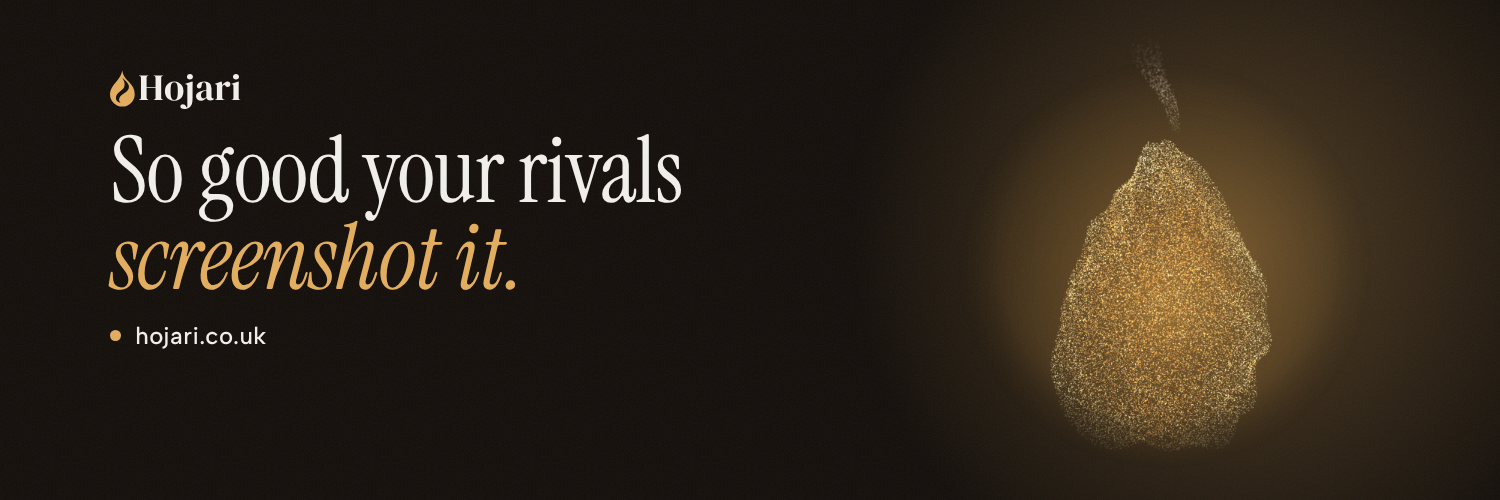
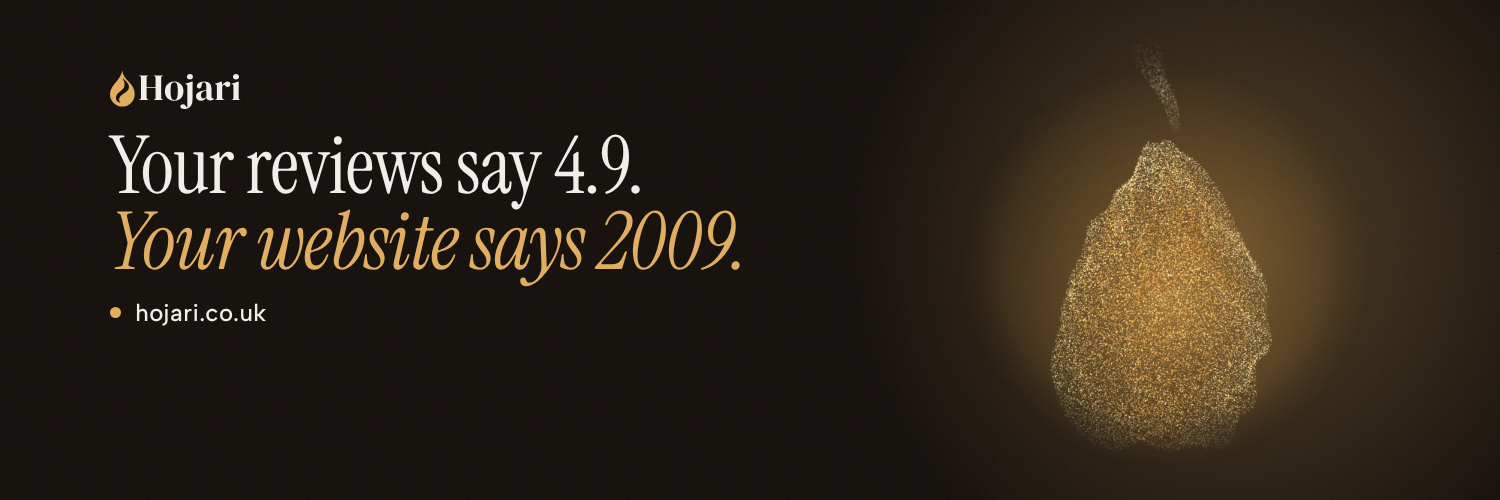
New headline: Your reviews say 4.9. Your website says 2009. Repeated phrases trimmed; preview card, story, cover and X header updated

Changed region(s): [[0.0613, 0.27, 0.4907, 0.69]]

diff --git a/public/index.html b/public/index.html
@@ -3,12 +3,12 @@
 <head>
 <meta charset="utf-8">
 <meta name="viewport" content="width=device-width, initial-scale=1">
-<title>Hojari · Websites so good your rivals screenshot them</title>
+<title>Hojari · Websites that live up to your reviews</title>
 <meta name="description" content="Websites that look a million quid and get your phone ringing with paying customers. Free homepage mock-up in 48 hours and live in 5 days, with nothing upfront.">
-<meta property="og:title" content="Hojari · So good your rivals screenshot it">
+<meta property="og:title" content="Hojari · Your reviews say 4.9. Your website says 2009.">
 <meta property="og:description" content="Websites and apps that look a million quid and get your phone ringing. Free homepage mock-up in 48 hours.">
 <meta property="og:type" content="website">
-<meta property="og:image" content="https://hojari.co.uk/assets/og-card.jpg">
+<meta property="og:image" content="https://hojari.co.uk/assets/og-card-2.jpg">
 <link rel="canonical" href="https://hojari.co.uk/">
 <meta property="og:url" content="https://hojari.co.uk/">
 <meta property="og:image:width" content="1200">
@@ -54,8 +54,8 @@
 <section class="hero" id="top" aria-labelledby="hero-title">
   <picture class="hero-pic"><source type="image/avif" srcset="assets/tear-poster-400.avif 400w, assets/tear-poster-560.avif 560w, assets/tear-poster-720.avif 720w" sizes="(max-width: 899px) 320px, 44vw"><img class="hero-poster" src="assets/tear-poster.webp" srcset="assets/tear-poster-460.webp 460w, assets/tear-poster.webp 720w" sizes="(max-width: 899px) 320px, 44vw" width="1200" height="1200" alt="" fetchpriority="high"></picture>
   <div class="hero-text">
-    <h1 id="hero-title" class="hero-title split">So good your rivals <em>screenshot it.</em></h1>
-    <p class="hero-sub">Frankincense was once worth its weight in gold. I'm Prejith, and I build websites that earn theirs. They look a million quid and get your phone ringing with paying customers.</p>
+    <h1 id="hero-title" class="hero-title split"><span class="hl">Your reviews say 4.9.</span> <em>Your website says 2009.</em></h1>
+    <p class="hero-sub">I'm Prejith, and I build websites that live up to your reviews. They look a million quid, load in a blink, and get your phone ringing with paying customers.</p>
     <div class="hero-actions">
       <a class="button button-light magnetic" href="#contact"><span class="long">Get your free mock-up</span><span class="short">Free mock-up</span></a>
       <a class="text-link hero-work" href="#work">See the work</a>
@@ -120,7 +120,7 @@
         <label class="check"><input type="checkbox" name="q"><span>It comes up when you Google your business</span></label>
         <label class="check"><input type="checkbox" name="q"><span>It loads in under three seconds</span></label>
         <label class="check"><input type="checkbox" name="q"><span>There's a padlock next to the address</span></label>
-        <label class="check"><input type="checkbox" name="q"><span>The photos are actually yours</span></label>
+        <label class="check"><input type="checkbox" name="q"><span>The photos are all yours</span></label>
         <label class="check"><input type="checkbox" name="q"><span>Someone has updated it this year</span></label>
       </fieldset>
     </form>
@@ -214,7 +214,7 @@
     <p>Hiring a web designer usually means paying first and hoping for the best. I'd rather take that risk myself, so I've put it in writing.</p>
   </div>
   <ol class="usp-list">
-    <li class="usp-card"><h3>You see it before you pay.</h3><p>A mock-up of your own homepage in 48 hours, with your name and your real reviews on it. If you don't love it, you walk away and owe nothing.</p></li>
+    <li class="usp-card"><h3>You see it before you pay.</h3><p>A mock-up of your own homepage in 48 hours, made from your business rather than a template. If you don't love it, you walk away and owe nothing.</p></li>
     <li class="usp-card"><h3>Fast, or that month is free.</h3><p>Every site I build scores 90 or more for speed on Google's own mobile test. If yours ever drops below that, you don't pay that month.</p></li>
     <li class="usp-card"><h3>Changes in 48 hours, or that month's on me.</h3><p>Send a WhatsApp with a new price, photo or opening time. It's live within 48 hours. Miss it, and you don't pay that month.</p></li>
     <li class="usp-card"><h3>A marketer and an operator.</h3><p>I started in marketing and now work in product and operations. So your site is built to bring customers in, and to suit how your day really runs, with bookings that don't clash and prices that are easy to change.</p></li>
@@ -272,7 +272,7 @@
         <div class="card-body">
           <h3>Yours</h3>
           <p class="card-meta">Next</p>
-          <p>Tell me about your business and I'll mock up your homepage before you pay a penny. If you don't like it, you've lost five minutes and got a free second opinion.</p>
+          <p>Tell me about your business and I'll mock up your homepage before you pay anything. If you don't like it, you've lost five minutes and got a free second opinion.</p>
         </div>
       </a>
     </article>
@@ -289,7 +289,7 @@
       <li><b>An age picker.</b> Parents tap their child's age and the site points them to the right session.</li>
       <li><b>One red line.</b> It runs through all five ways to play, so a club team and a birthday party feel like the same place.</li>
       <li><b>A booking button on every screen.</b> Nobody should have to hunt for one.</li>
-      <li><b>The good stuff up front.</b> UEFA licensed coaches, DBS checks and the Cambridge United partnership, where parents see them straight away.</li>
+      <li><b>The good stuff up front.</b> UEFA licensed coaches, DBS checks and the Cambridge United partnership, where parents see them first.</li>
     </ol>
     <a class="text-link" href="https://performance-pathway-concept.vercel.app" target="_blank" rel="noopener">See the work in progress</a>
   </div>
@@ -577,7 +577,7 @@
   </div>
   <ol class="steps">
     <li class="step"><span class="step-n">1</span><div><h3>A short call</h3><p>Fifteen minutes on video or WhatsApp. You tell me what you sell, who buys it, and what drives you mad about your current site.</p></div></li>
-    <li class="step"><span class="step-n">2</span><div><h3>Your homepage in 48 hours</h3><p>You get a mock-up of your own homepage, with your name and your real reviews on it. Love it and we carry on. Don't, and you owe me nothing.</p></div></li>
+    <li class="step"><span class="step-n">2</span><div><h3>Your homepage in 48 hours</h3><p>You get a mock-up of your own homepage, built around your business. Love it and we carry on. Don't, and you owe me nothing.</p></div></li>
     <li class="step"><span class="step-n">3</span><div><h3>Live in 5 days</h3><p>I write the words with you and build every page. You're live within five days of sending your photos, with your Google profile sorted too.</p></div></li>
     <li class="step"><span class="step-n">4</span><div><h3>Looked after</h3><p>Every month I make your changes, keep the site fast and safe, and on Royal Green I send you a short report in plain English. You can WhatsApp me any time.</p></div></li>
     <li class="steps-line" aria-hidden="true"><b></b></li>
@@ -639,7 +639,7 @@
 <section class="faq" id="faq" aria-labelledby="faq-title">
   <div class="faq-head">
     <h2 id="faq-title" class="split">Fair <em>questions</em></h2>
-    <p>Everything people usually ask before they hire a web designer, answered straight.</p>
+    <p>Everything people usually ask before they hire a web designer, answered plainly.</p>
   </div>
   <div class="faq-groups">
     <h3 class="qa-group">Cost and commitment</h3>
@@ -657,13 +657,13 @@
       <details class="qa"><summary>How long does it take?<i></i></summary><div class="qa-body"><p>Your homepage mock-up arrives within 48 hours. Once I have your words and photos, the whole site is live within five days.</p></div></details>
       <details class="qa"><summary>What do you need from me?<i></i></summary><div class="qa-body"><p>A 15-minute chat, your logo if you have one, a few photos and your prices or services. I'll handle the rest, including writing the words.</p></div></details>
       <details class="qa"><summary>Who writes the words?<i></i></summary><div class="qa-body"><p>I do, from our chat, and you approve every line. It'll sound like you on a good day, after a decent coffee.</p></div></details>
-      <details class="qa"><summary>I don't have good photos. Is that a problem?<i></i></summary><div class="qa-body"><p>No. I'll tell you exactly what to snap on your phone, and fill any gaps with good, properly licensed photos. Signature includes help planning a proper shoot.</p></div></details>
+      <details class="qa"><summary>I don't have good photos. Is that a problem?<i></i></summary><div class="qa-body"><p>No. I'll tell you exactly what to snap on your phone, and fill any gaps with good licensed photos. Signature includes help planning a proper shoot.</p></div></details>
       <details class="qa"><summary>How many changes can I ask for before launch?<i></i></summary><div class="qa-body"><p>I keep going until you're happy with it. Most people need one or two rounds.</p></div></details>
       <details class="qa"><summary>I already have a website. Can you improve it?<i></i></summary><div class="qa-body"><p>Yes. I'll look at it properly first, and if it's already good I'll tell you. I'll move your old content across for free.</p></div></details>
       <details class="qa"><summary>I already own a domain. Can I keep it?<i></i></summary><div class="qa-body"><p>Yes. I connect it for you. You keep your current email address too.</p></div></details>
       <details class="qa"><summary>Will it work with the booking system I already use?<i></i></summary><div class="qa-body"><p>Usually, yes. Fresha, Treatwell, Calendly, Square and most others can be linked or built right into your pages.</p></div></details>
-      <details class="qa"><summary>Can you build an online shop?<i></i></summary><div class="qa-body"><p>Yes, for small shops. A handful of products fits on Royal Green. A bigger shop is a Signature build, and I'll give you a straight price before we start.</p></div></details>
-      <details class="qa"><summary>Can you build apps too?<i></i></summary><div class="qa-body"><p>Yes. Booking systems, loyalty cards, customer portals and small tools that work on any phone. Proper App Store apps take longer and cost more, and most businesses don't need one.</p></div></details>
+      <details class="qa"><summary>Can you build an online shop?<i></i></summary><div class="qa-body"><p>Yes, for small shops. A handful of products fits on Royal Green. A bigger shop is a Signature build, and I'll give you a fixed price before we start.</p></div></details>
+      <details class="qa"><summary>Can you build apps too?<i></i></summary><div class="qa-body"><p>Yes. Booking systems, loyalty cards, customer portals and small tools that work on any phone. App Store apps take longer and cost more, and most businesses don't need one.</p></div></details>
     </div>
     <h3 class="qa-group">After launch</h3>
     <div class="qas">
@@ -671,9 +671,9 @@
       <details class="qa"><summary>Can I make changes myself?<i></i></summary><div class="qa-body"><p>You can, but most people just WhatsApp me. Small changes are unlimited and done within 48 hours. If you'd like to update things like opening hours yourself, I can set that up.</p></div></details>
       <details class="qa"><summary>Is it secure, and is it backed up?<i></i></summary><div class="qa-body"><p>Yes. Every site has a secure padlock connection, is kept up to date and is backed up. If anything ever breaks, I fix it.</p></div></details>
       <details class="qa"><summary>What about privacy rules and cookies?<i></i></summary><div class="qa-body"><p>I write your privacy page for you, and I don't add tracking cookies unless you need them, so most sites don't need an annoying cookie banner.</p></div></details>
-      <details class="qa"><summary>Is it accessible?<i></i></summary><div class="qa-body"><p>Yes. Text is readable, colours have proper contrast, and the site works with screen readers and keyboards.</p></div></details>
+      <details class="qa"><summary>Is it accessible?<i></i></summary><div class="qa-body"><p>Yes. Text is readable, colours have strong contrast, and the site works with screen readers and keyboards.</p></div></details>
       <details class="qa"><summary>Will I know if it is working?<i></i></summary><div class="qa-body"><p>Royal Green includes a short monthly report in plain English, covering visits, calls, bookings and what I'd change next.</p></div></details>
-      <details class="qa"><summary>Do you do social media or Google Ads?<i></i></summary><div class="qa-body"><p>Not as a service. I'll make sure your site is ready for them, and if you ask, I'll tell you straight whether they're worth your money.</p></div></details>
+      <details class="qa"><summary>Do you do social media or Google Ads?<i></i></summary><div class="qa-body"><p>Not as a service. I'll make sure your site is ready for them, and if you ask, I'll tell you whether they're worth your money.</p></div></details>
     </div>
     <h3 class="qa-group">About working with me</h3>
     <div class="qas">
@@ -681,7 +681,7 @@
       <details class="qa"><summary>Where are you based?<i></i></summary><div class="qa-body"><p>Muscat, in Oman, which is home. Your website lives on the internet, so it doesn't mind. I lived in the UK for years and keep UK hours for clients. And yes, I know what a Greggs sausage roll is.</p></div></details>
       <details class="qa"><summary>Do we need to meet in person?<i></i></summary><div class="qa-body"><p>No. Everything happens over a video call, WhatsApp and email.</p></div></details>
       <details class="qa"><summary>What happens if you are ill or on holiday?<i></i></summary><div class="qa-body"><p>Your site keeps running on its own, and everything is backed up. I'll always tell you in advance if I'm away, and I still do urgent fixes from wherever I am.</p></div></details>
-      <details class="qa"><summary>Do you only work with UK businesses?<i></i></summary><div class="qa-body"><p>No. I build for UK businesses first, but I live in Muscat, so the Gulf is home turf too. Prices here are in pounds; if you're in Oman, the UAE or nearby, I'll quote in rials or dirhams. I can also build your site in English and Arabic, with the Arabic reading right to left properly rather than just flipped.</p></div></details>
+      <details class="qa"><summary>Do you only work with UK businesses?<i></i></summary><div class="qa-body"><p>No. I build for UK businesses first, but I live in Muscat, so the Gulf is home turf too. Prices here are in pounds; if you're in Oman, the UAE or nearby, I'll quote in rials or dirhams. I can also build your site in English and Arabic, with the Arabic reading right to left as it should, rather than just flipped.</p></div></details>
       <details class="qa"><summary>Why should I trust someone I've just found?<i></i></summary><div class="qa-body"><p>You don't need to trust me yet. You see your homepage before paying, there's nothing upfront and you can have your money back in the first 30 days. If anyone's taking a gamble here, it's me.</p></div></details>
     </div>
   </div>

diff --git a/public/main.js b/public/main.js
@@ -431,7 +431,7 @@
   });
   if (cf) cf.addEventListener('submit', async (e) => {
     e.preventDefault();
-    const msgs = { name: 'Your name, so I know who to reply to.', email: 'An email address I can actually reply to.', business: 'The name of your business, so I can build your mock-up.' };
+    const msgs = { name: 'Your name, so I know who to reply to.', email: 'An email address that works, so I can reply.', business: 'The name of your business, so I can build your mock-up.' };
     let first = null;
     Object.keys(msgs).forEach((k) => {
       const el = cf[k], err = $('#err-' + k), bad = !el.checkValidity();
@@ -507,7 +507,7 @@
       ['Dentist', 'Check-ups without the dread.', 'New patients welcome. Evening appointments available.', 'Book a check-up', ['Check-up £45', 'Hygienist £60', 'Whitening'], 'I didn\'t even mind going. Weird.', 'Bright Street Dental', [[4, 10], [46, 22], [44, 82]]],
       ['Trades', 'Fixed properly the first time.', 'Same-day call-outs and fixed prices you can see upfront.', 'Get a quote', ['Boiler service £79', 'Same-day call-outs', 'Fully insured'], 'Turned up on time and cleaned up after.', 'Ace Plumbing', [[60, 30], [10, 4], [36, 80]]],
       ['Cleaner', 'Come home to a clean house.', 'Weekly, fortnightly or a one-off deep clean.', 'Get a quote', ['Regular clean £16/hr', 'Deep clean', 'End of tenancy'], 'I didn\'t know my oven was that colour.', 'Shine & Co', [[40, 4], [8, 40], [50, 82]]],
-      ['Photographer', 'Photos you\'ll actually frame.', 'Weddings, portraits and brand shoots, booked a year ahead.', 'Check my dates', ['Weddings from £1,200', 'Portraits £150', 'Brand shoots'], 'We cried looking at them. Good crying.', 'Frame & Field', [[18, 0], [50, 30], [12, 84]]],
+      ['Photographer', 'Photos you\'ll want on the wall.', 'Weddings, portraits and brand shoots, booked a year ahead.', 'Check my dates', ['Weddings from £1,200', 'Portraits £150', 'Brand shoots'], 'We cried looking at them. Good crying.', 'Frame & Field', [[18, 0], [50, 30], [12, 84]]],
       ['Accountant', 'Your tax return, done before the panic.', 'Fixed monthly fees for sole traders and small companies.', 'Book a free call', ['Self assessment £150', 'Bookkeeping', 'VAT returns'], 'First January I haven\'t panicked.', 'Clear Books', [[62, 6], [20, 18], [8, 84]]],
       ['Florist', 'Flowers that make the card look lazy.', 'Same-day delivery across town, ordered in a minute.', 'Order flowers', ['Bouquets from £35', 'Same-day delivery', 'Weddings'], 'She said yes. The flowers helped.', 'Petal & Stem', [[24, 4], [60, 26], [16, 80]]],
       ['Tutor', 'Maths that finally makes sense.', 'GCSE and A level maths, online or in person.', 'Book a trial lesson', ['Trial lesson free', 'GCSE maths £35/hr', 'A level £40/hr'], 'Went from a 4 to a 7.', 'Top Marks Tutoring', [[52, 0], [4, 14], [34, 82]]],

diff --git a/public/styles.css b/public/styles.css
@@ -1545,3 +1545,15 @@ section[id] { scroll-margin-top: 0; }
   .contact-alt { grid-column: 1; grid-row: 4; align-self: start; max-width: none; }
   .sofar { grid-column: 1; grid-row: 5; }
 }
+
+/* ===== New headline: two sentences, each on its own line ===== */
+.hero-title { max-width: none; font-size: clamp(3.4rem, 1.2rem + 5.6vw, 7.6rem); line-height: .98; }
+.hero-title .hl, .hero-title em { display: block; }
+@media (min-width: 900px) { .hero-copy, .hero > div:first-child { max-width: 60vw; } }
+@media (max-width: 899px) { .hero-title { font-size: clamp(2.6rem, 11.2vw, 3.6rem); } }
+@media (min-width: 600px) and (max-width: 899px) { .hero-title { font-size: clamp(3.6rem, 8.6vw, 5rem); } }
+.hero-title .hl, .hero-title em { white-space: nowrap; }
+.hero-title { font-size: clamp(3.2rem, 1rem + 5vw, 6.6rem); }
+@media (max-width: 899px) { .hero-title { font-size: min(10.2vw, 3.3rem); } }
+@media (min-width: 600px) and (max-width: 899px) { .hero-title { font-size: min(8.4vw, 4.6rem); } }
+@media (min-width: 600px) and (max-width: 899px) { .hero-title { font-size: min(10vw, 5.4rem); } }

diff --git a/brand/email-signature.html b/brand/email-signature.html
@@ -6,7 +6,7 @@
     <td style="padding:2px 0 2px 18px;border-left:1px solid #E3AD5C;vertical-align:top;">
       <div style="font-family:Georgia,'Times New Roman',serif;font-size:21px;line-height:1.15;color:#140F0B;letter-spacing:-0.2px;">Prejith Ponnachan</div>
       <div style="font-size:10.5px;line-height:1.6;letter-spacing:1.8px;text-transform:uppercase;color:#B25E17;font-weight:bold;padding-top:3px;">Founder &middot; Hojari</div>
-      <div style="font-family:Georgia,'Times New Roman',serif;font-style:italic;font-size:14px;line-height:1.45;color:#5c5246;padding-top:7px;">Websites so good your rivals screenshot them.</div>
+      <div style="font-family:Georgia,'Times New Roman',serif;font-style:italic;font-size:14px;line-height:1.45;color:#5c5246;padding-top:7px;">Websites that live up to your reviews.</div>
       <div style="font-size:12.5px;line-height:1.6;padding-top:7px;">
         <a href="https://hojari.co.uk" style="color:#140F0B;text-decoration:none;font-weight:bold;">hojari.co.uk</a>
         <span style="color:#E3AD5C;">&nbsp;&nbsp;/&nbsp;&nbsp;</span>
